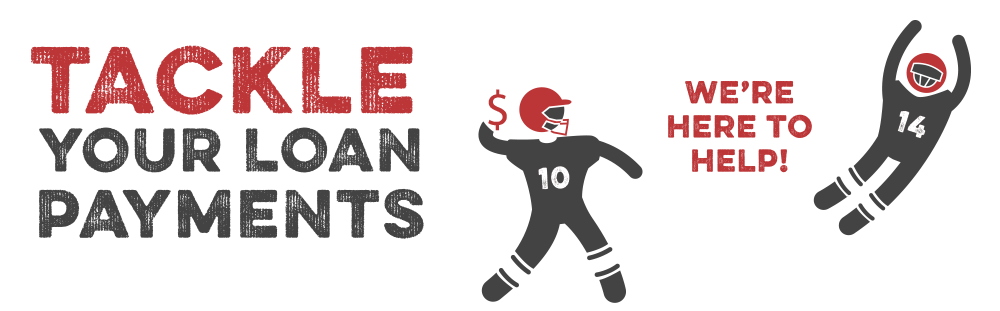
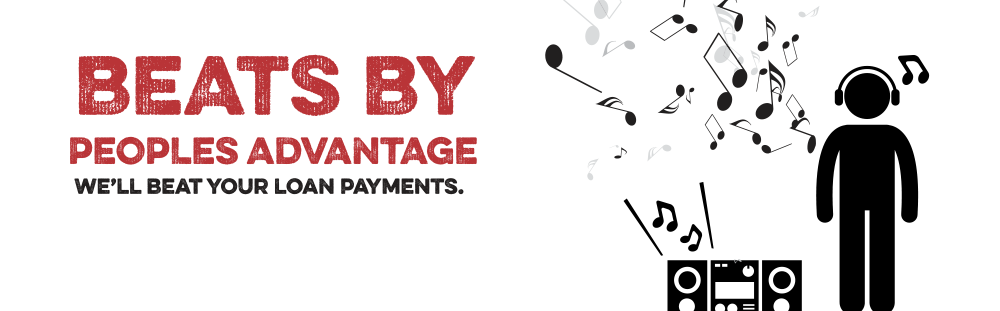
Swap out the header with the new musical one.

diff --git a/css/main.css b/css/main.css
@@ -1,1 +1,1 @@
[2 lines of base64/hex data omitted]

diff --git a/css/src/main.scss b/css/src/main.scss
@@ -37,20 +37,10 @@ header {
 	position: relative;
 	background: url(../img/bg-head.jpg) bottom center no-repeat;
 	background-size: cover;
-	padding-bottom: 5px;
-}
-
-
-
-.subhead {
-	background: url(../img/bg-subhead.jpg) center center no-repeat;
-	background-size: cover;
-	padding: 4px 0 0;
 	border-bottom: 20px solid $navy;
 
-	@include respond-to( 768px ) {
-		padding: 14px 0 10px;
-		border-bottom: 30px solid $navy;
+	img {
+		display: block;
 	}
 }
 

diff --git a/index.html b/index.html
@@ -18,12 +18,6 @@
 			</div>
 		</header>
 
-		<div class="subhead">
-			<div class="wrap">
-				<img src="img/sub-header.png" class="header">
-			</div>
-		</div>
-		
 		<div class="main-content wrap text-center">
 
 			<p>Do your loan payments keep you down? Would you like to pay less each month? Have credit issues or loan denials kept you from applying in the past?</p>
